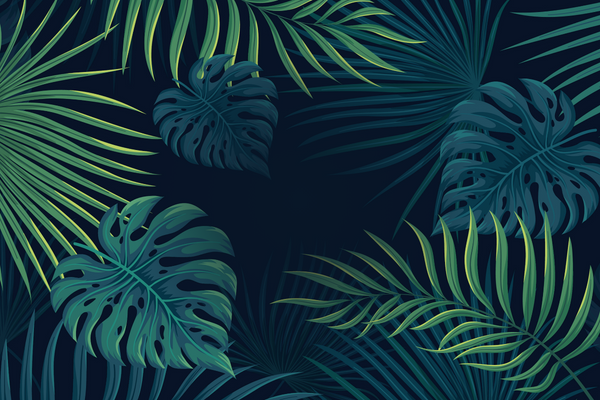
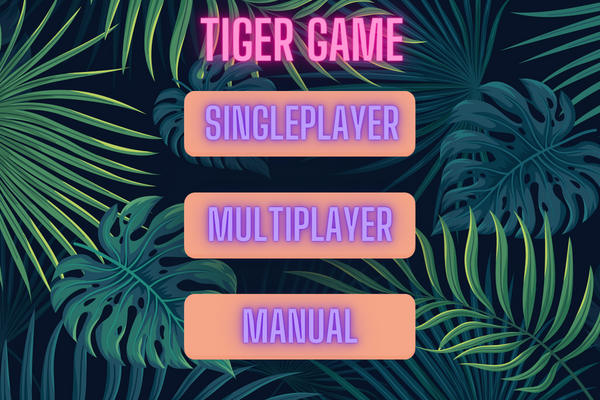
Menu + Buttons

diff --git a/src/main/java/TigerGame/StartMenu.java b/src/main/java/TigerGame/StartMenu.java
@@ -27,9 +27,9 @@ public class StartMenu extends GraphicsProgram
 	
 	// each button is going to be a png, click on it to perform action
 	GImage background = new GImage("sounds/main_menu.png");
-	//GImage singleButton = new GImage("robot.png");
-	//AGImage multiButton = new GImage("robot.png");
-	//GImage titleImage = new GImage("robot.png");
+	GImage singleButton = new GImage("sounds/singleButton.png");
+	GImage multiButton = new GImage("sounds/multiButton.png");
+	GImage menuImage = new GImage("sounds/manualButton.png");
 	
 	
 	public void init() {
@@ -41,7 +41,18 @@ public class StartMenu extends GraphicsProgram
 	public void run() {
 		this.addMouseListeners();
 		add(background);
+		add(singleButton);
+		singleButton.setSize(234, 70);
+		singleButton.move(183, 90);
+		add(multiButton);
+		multiButton.setSize(234,70);
+		multiButton.move(183, 190);
+		add(menuImage);
+		menuImage.setSize(234,70);
+		menuImage.move(183,291);
 		System.out.println("Hello, RAAAamis!");
+		
+		
 	}
 	
 	

diff --git a/src/main/java/TigerGame/PlayerManual.java b/src/main/java/TigerGame/PlayerManual.java
@@ -3,7 +3,7 @@ package TigerGame;
 
 import java.awt.event.MouseEvent;
 import acm.graphics.GImage;
-
+ 
 public class PlayerManual {
 
 	GImage titleImage;
